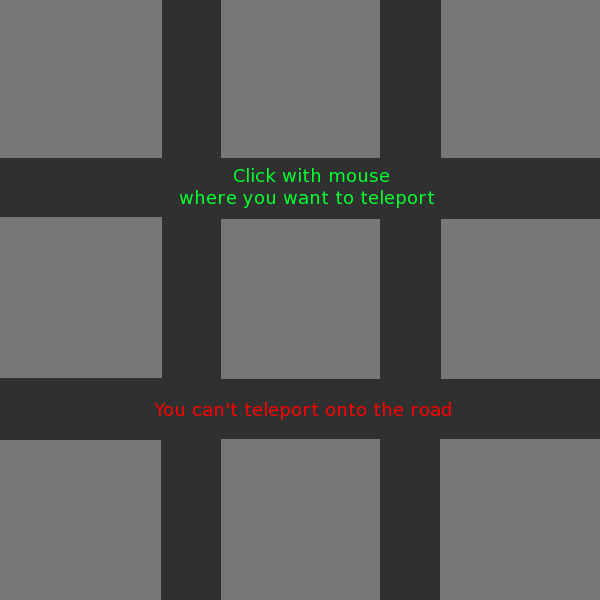
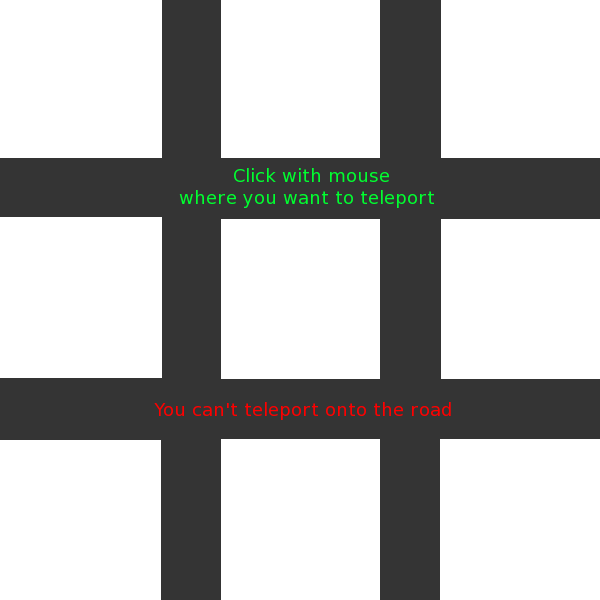
add teleportation bonus

diff --git a/src/main.py b/src/main.py
@@ -374,6 +374,9 @@ class FerrisRunGame(GameState):
 
         self.answer = Sprite("answer", self.res)
 
+        self.teleport_sprite = Sprite("teleport_area", self.res, None, ORIGIN_TOP_LEFT)
+        self.teleporting = False
+
         self.trafficLights = [TrafficLight(traffic_light.YELLOW_BEFORE_GREEN, 160, 160),
                               TrafficLight(traffic_light.YELLOW_BEFORE_GREEN, 380, 160),
                               TrafficLight(traffic_light.YELLOW_BEFORE_GREEN, 220, 380),
@@ -432,10 +435,12 @@ class FerrisRunGame(GameState):
             [ BonusWithTimer(self.cfg, self.res, self.ferris.set_speed_fast, self.ferris.set_speed_normal, "bonus-speed"),
               BonusWithTimer(self.cfg, self.res, self.bullet_time_on, self.bullet_time_off, "bonus-slow"),
               BonusWithTimer(self.cfg, self.res, self.rich_mode_on, self.rich_mode_off, "bonus-rich"),
-              BonusWithTimer(self.cfg, self.res, self.enemies_flee_on, self.enemies_flee_off, "bonus-enemies-flee"),
-              BonusWithTimer(self.cfg, self.res, self.lights_crash_on, self.lights_crash_off, "bonus-lights"), ],
-            [ BonusWithCounter(self.cfg, self.res, self.pick_register, "bonus-pick"),
-              BonusWithTimer(self.cfg, self.res, self.remote_gather_on, self.remote_gather_off, "bonus-remote-gather", True), ]
+              BonusWithTimer(self.cfg, self.res, self.enemies_flee_on, self.enemies_flee_off, "bonus-enemies-flee"), ],
+            [ BonusWithTimer(self.cfg, self.res, self.lights_crash_on, self.lights_crash_off, "bonus-lights"),
+              BonusWithCounter(self.cfg, self.res, self.pick_register, "bonus-pick"),
+              BonusWithTimer(self.cfg, self.res, self.remote_gather_on, self.remote_gather_off, "bonus-remote-gather", True),
+              BonusWithCounter(self.cfg, self.res, self.teleport, "bonus-teleport")
+              ]
             ]
 
     def set_level(self, level_num):
@@ -576,6 +581,9 @@ class FerrisRunGame(GameState):
     def remote_gather_off(self): # this is passive, always active
         pass
 
+    def teleport(self):
+        self.teleporting = True
+
     def pick_register(self):
         self.res.sounds_play("collect")
         self.register = Register(self.cfg, self.res)
@@ -585,6 +593,23 @@ class FerrisRunGame(GameState):
             self.go_to_next_level()
 
     def process_event(self, event):
+        if event.type == MOUSEBUTTONDOWN:
+            if self.teleporting and not self.stopped:
+                if event.pos[0] < 0 or event.pos[0] > 600:
+                    return
+                if event.pos[1] < 0 or event.pos[1] > 600:
+                    return
+                if 160 <= event.pos[0] and event.pos[0] <= 220:
+                    return
+                if 380 <= event.pos[0] and event.pos[0] <= 440:
+                    return
+                if 160 <= event.pos[1] and event.pos[1] <= 220:
+                    return
+                if 380 <= event.pos[1] and event.pos[1] <= 440:
+                    return
+                self.ferris.position = event.pos
+                self.teleporting = False
+
         if event.type == KEYDOWN:
             self.last_keys.append(event.key)
             self.last_keys = self.last_keys[-100:]
@@ -707,6 +732,12 @@ class FerrisRunGame(GameState):
             collect_text = self.res.font_render("LESSERCO", 36, "Collect dictionaries (stars)", color.by_name["red"])
             screen.blit(collect_text, (110,450))
 
+        if self.teleporting and not self.stopped:
+            pygame.mouse.set_visible(True)
+            self.teleport_sprite.display(screen, (0,0))
+        else:
+            pygame.mouse.set_visible(not self.cfg.fullscreen)
+
         if self.cfg.answer:
             self.answer.display(screen, (350,350))
 
@@ -734,5 +765,4 @@ def main():
     res = Resources(cfg).load_all()
     fsm.set_state(FerrisRunGame(cfg,res))
     pygame.display.set_caption(cfg.app_name)
-    pygame.mouse.set_visible(not cfg.fullscreen)
     fsm.run()

diff --git a/src/resources.py b/src/resources.py
@@ -64,7 +64,7 @@ class Resources:
                  "sister-left",
                  "sister-right",
                  "sister-up",
-                 "sister-down",                 
+                 "sister-down",
                  "register",
                  "car-left-white",
                  "bonus-speed-mini",
@@ -83,6 +83,7 @@ class Resources:
                  "bonus-remote-gather-mini-dark",
                  "bonus-teleport-mini",
                  "bonus-teleport-mini-dark",
+                 "teleport_area",
                  "redcar-right",
                  "bluecar-right",
                  "yellowcar-right",
